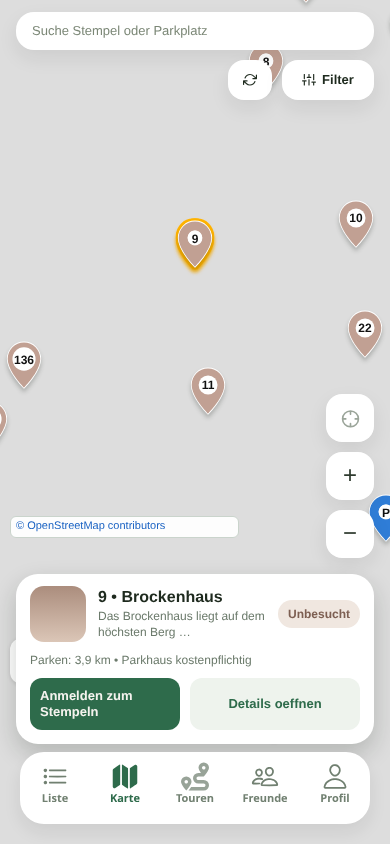
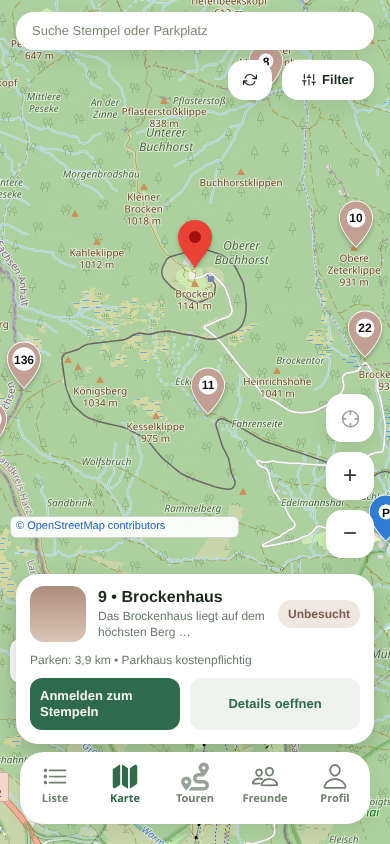
Use red GPS pin for selected web map markers

diff --git a/app/components/maps/map-primitives.web.tsx b/app/components/maps/map-primitives.web.tsx
@@ -11,7 +11,7 @@ import {
 } from 'react-leaflet';
 import { Image, View, type StyleProp, type ViewStyle } from 'react-native';
 
-import { SELECTED_MARKER_Z_INDEX, MARKER_SELECTION_COLOR } from '@/lib/map-marker-selection';
+import { SELECTED_MARKER_Z_INDEX, createSelectedMapPinHtml } from '@/lib/map-marker-selection';
 import { areMapCoordinatesEqual } from '@/lib/map-viewport';
 import { CanvasMapMarkers, type CanvasMapMarker } from '@/lib/canvas-map-markers';
 import { defaultWebMapStyle, reduceWalkingStyle, WEB_MAP_STYLES, type WebMapStyleId } from '@/lib/web-map-style';
@@ -119,7 +119,9 @@ const WEB_MAP_DIAGNOSTIC_INTERVAL_MS = 4000;
 const LEAFLET_STYLE_TAG_ID = 'hwb-leaflet-runtime-css';
 const LEAFLET_RUNTIME_CSS = `
 .hwb-map-marker-selected {
-  filter: drop-shadow(2px 0 0 ${MARKER_SELECTION_COLOR}) drop-shadow(-2px 0 0 ${MARKER_SELECTION_COLOR}) drop-shadow(0 2px 0 ${MARKER_SELECTION_COLOR}) drop-shadow(0 -2px 0 ${MARKER_SELECTION_COLOR});
+  background: transparent;
+  border: 0;
+  filter: drop-shadow(0 2px 2px rgba(0, 0, 0, 0.25));
 }
 
 .leaflet-container {
@@ -509,9 +511,8 @@ function createIcon(options: {
     return existing;
   }
 
-  const icon = imageUri
+  const icon = imageUri && !selected
     ? L.icon({
-        className: selected ? 'hwb-map-marker-selected' : '',
         iconAnchor,
         iconSize: [width, height],
         iconUrl: imageUri,
@@ -520,7 +521,7 @@ function createIcon(options: {
         className: `${canvas ? 'hwb-canvas-marker-target' : 'hwb-leaflet-div-icon'}${selected && !canvas ? ' hwb-map-marker-selected' : ''}`,
         html: canvas
           ? `<span aria-hidden="true" class="hwb-css-marker__label">${(normalizedLabel ?? '').replaceAll('&', '&amp;').replaceAll('<', '&lt;').replaceAll('>', '&gt;').replaceAll('"', '&quot;')}</span>`
-          : createCssMapMarkerHtml({ color, label: normalizedLabel, size }),
+          : selected ? createSelectedMapPinHtml() : createCssMapMarkerHtml({ color, label: normalizedLabel, size }),
         iconAnchor,
         iconSize: [width, height],
       });
@@ -1081,7 +1082,7 @@ function Marker(props: InternalMarkerProps) {
   const shouldUseCompactMarker = Boolean(children) && !imageUri && !markerLabel;
   const derivedColor =
     pinColor ?? (typeof zIndex === 'number' && zIndex <= 14 ? '#2f7dd7' : '#2e6b4b');
-  const size = shouldUseCompactMarker ? WEB_MARKER_SIZE_COMPACT : WEB_MARKER_SIZE;
+  const size = shouldUseCompactMarker && !selected ? WEB_MARKER_SIZE_COMPACT : WEB_MARKER_SIZE;
   const useCanvas = Boolean(canvasRenderer) && !imageUri;
   const icon = createIcon({
     anchor,

diff --git a/app/lib/canvas-map-markers.ts b/app/lib/canvas-map-markers.ts
@@ -1,5 +1,5 @@
 import L from 'leaflet';
-import { MARKER_SELECTION_COLOR } from './map-marker-selection';
+import { SELECTED_MAP_PIN } from './map-marker-selection';
 import { geometry, resolveMapMarkerLabelStyle } from './map-marker-style';
 
 export type CanvasMapMarker = {
@@ -91,10 +91,19 @@ export class CanvasMapMarkers {
     const context = image.getContext('2d')!;
     context.scale(this.ratio, this.ratio);
     context.translate(8, 8);
-    if (record.size <= 18) {
+    if (record.selected) {
+      const pin = SELECTED_MAP_PIN;
+      context.scale(width / pin.width, height / pin.height);
+      context.fillStyle = pin.color;
+      context.fill(new Path2D(pin.path));
+      context.beginPath();
+      context.arc(pin.dotX, pin.dotY, pin.dotRadius, 0, Math.PI * 2);
+      context.fillStyle = pin.dotColor;
+      context.fill();
+    } else if (record.size <= 18) {
       context.beginPath(); context.arc(width / 2, height / 2, width / 2 - 2, 0, Math.PI * 2);
       context.fillStyle = record.color; context.fill();
-      context.strokeStyle = record.selected ? MARKER_SELECTION_COLOR : '#fff'; context.lineWidth = record.selected ? 4 : 2; context.stroke();
+      context.strokeStyle = '#fff'; context.lineWidth = 2; context.stroke();
     } else {
       context.scale(width / geometry.width, height / geometry.height);
       const path = new Path2D(geometry.pinPath);
@@ -103,9 +112,6 @@ export class CanvasMapMarkers {
       context.shadowOffsetY = 4;
       context.fillStyle = '#fff'; context.fill(path, 'evenodd');
       context.shadowColor = 'transparent';
-      if (record.selected) {
-        context.strokeStyle = MARKER_SELECTION_COLOR; context.lineWidth = 8; context.stroke(path);
-      }
       context.strokeStyle = '#fff'; context.lineWidth = 2; context.stroke(path);
       context.fillStyle = record.color; context.fill(path, 'evenodd');
       const label = record.label ?? '';

diff --git a/app/lib/map-marker-selection.ts b/app/lib/map-marker-selection.ts
@@ -1,7 +1,21 @@
 import React from 'react';
 
 export const SELECTED_MARKER_Z_INDEX = 1000000;
-export const MARKER_SELECTION_COLOR = '#ffb300';
+export const SELECTED_MAP_PIN = {
+  width: 48,
+  height: 52,
+  color: '#ea4335',
+  dotColor: '#a50e0e',
+  path: 'M24 51C22 44 7 32 7 19a17 17 0 1 1 34 0c0 13-15 25-17 32Z',
+  dotX: 24,
+  dotY: 19,
+  dotRadius: 6,
+};
+
+export function createSelectedMapPinHtml() {
+  const pin = SELECTED_MAP_PIN;
+  return `<svg aria-hidden="true" width="100%" height="100%" viewBox="0 0 ${pin.width} ${pin.height}"><path fill="${pin.color}" d="${pin.path}"/><circle fill="${pin.dotColor}" cx="${pin.dotX}" cy="${pin.dotY}" r="${pin.dotRadius}"/></svg>`;
+}
 
 /** Preserve element identity for every marker except the selected one. */
 export function selectMapMarker<T extends { identifier?: string; selected?: boolean }>(

diff --git a/app/__tests__/map-primitives-web.test.tsx b/app/__tests__/map-primitives-web.test.tsx
@@ -162,7 +162,9 @@ describe('web map primitives', () => {
     expect(selected.icon).not.toBe(normal.icon);
     const icon = mockDivIcon.mock.calls.at(-1)![0] as { className: string; html: string };
     expect(icon.className).toContain('hwb-map-marker-selected');
-    expect(icon.html).toContain('#123abc');
+    expect(icon.html).toContain('fill="#ea4335"');
+    expect(icon.html).toContain('<circle fill="#a50e0e"');
+    expect(icon.html).not.toContain('SEL');
     view.rerender(<Marker {...props}>SEL</Marker>);
     expect(mockLeafletMarker.mock.calls.at(-1)![0]).toEqual(expect.objectContaining(normal));
   });

diff --git a/docs/marker-selection-investigation.md b/docs/marker-selection-investigation.md
@@ -25,8 +25,10 @@ Den Auswahlzustand explizit vom Bildschirm an beide Marker-Renderer übergeben u
 ## Behebung (28.10.2026)
 
 Die Web-Karte übergibt die Auswahl nun explizit an Canvas- und DOM-Marker.
-Der ausgewählte Stempel oder Parkplatz erhält eine goldene Kontur und eine
-höhere Zeichen- und Trefferebene. Die fachliche Statusfarbe bleibt erhalten.
+Der ausgewählte Stempel oder Parkplatz wird als roter GPS-Pin mit dunklem
+Mittelpunkt dargestellt, entsprechend den Maps-/Komoot-Referenzen. Er liegt
+auf einer höheren Zeichen- und Trefferebene. Die normale Statusdarstellung
+und Nummer werden während der Auswahl durch diesen Pin ersetzt.
 Beim Wechsel kehrt der vorherige Pin zur normalen Darstellung zurück; beim
 Schließen des Detailblatts verschwindet die Hervorhebung. `aria-pressed`
 kommuniziert die Auswahl unabhängig vom Tastaturfokus.
@@ -39,7 +41,7 @@ Native Android-/iOS-Marker sind von dieser Web-Behebung nicht betroffen.
 
 Geprüft mit 36 Tests in sechs Karten-Testsuites, TypeScript und gezieltem ESLint.
 Zusätzlich echter statischer Expo-Export und Playwright/Chromium bei 390 × 844,
-DPR 3 mit allen 222 öffentlichen Stempeln: sichtbare Kontur in beiden Renderern,
+DPR 3 mit allen 222 öffentlichen Stempeln: roter GPS-Pin in beiden Renderern,
 Auswahlwechsel per Enter, separater Browserfokus, Schließen durch Antippen der
 Karte und erhaltene Stempel-DOM-Knoten; keine JavaScript-Fehler.
 
